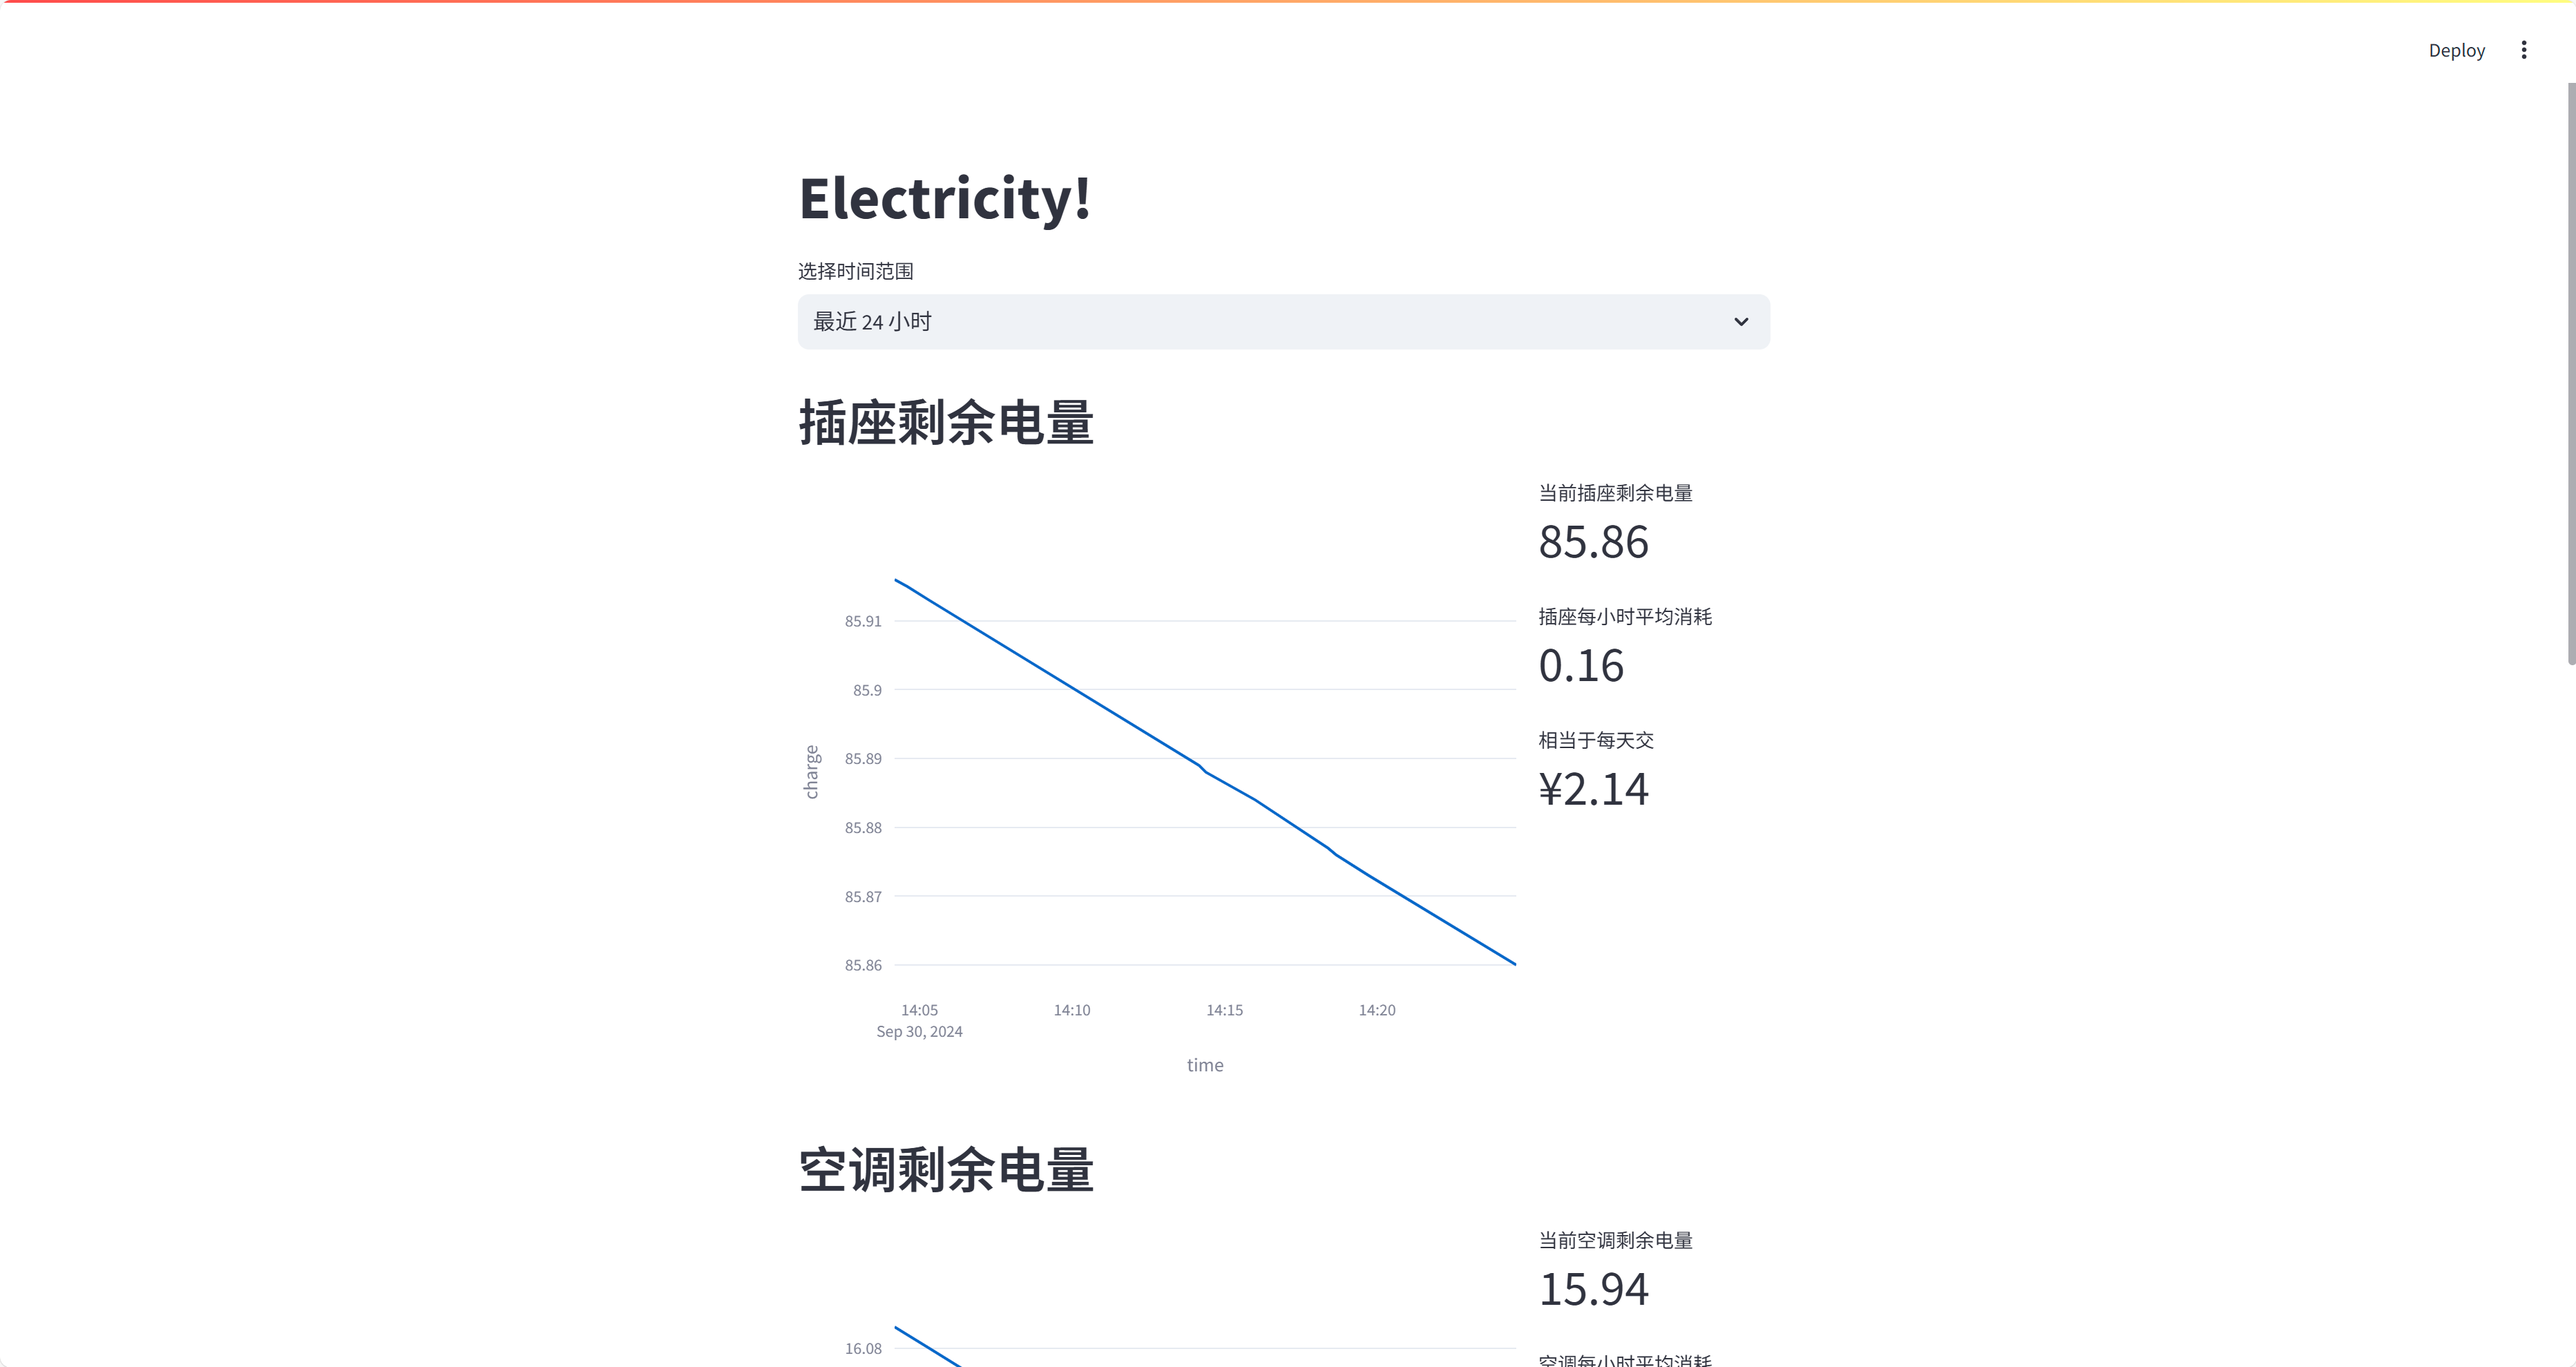
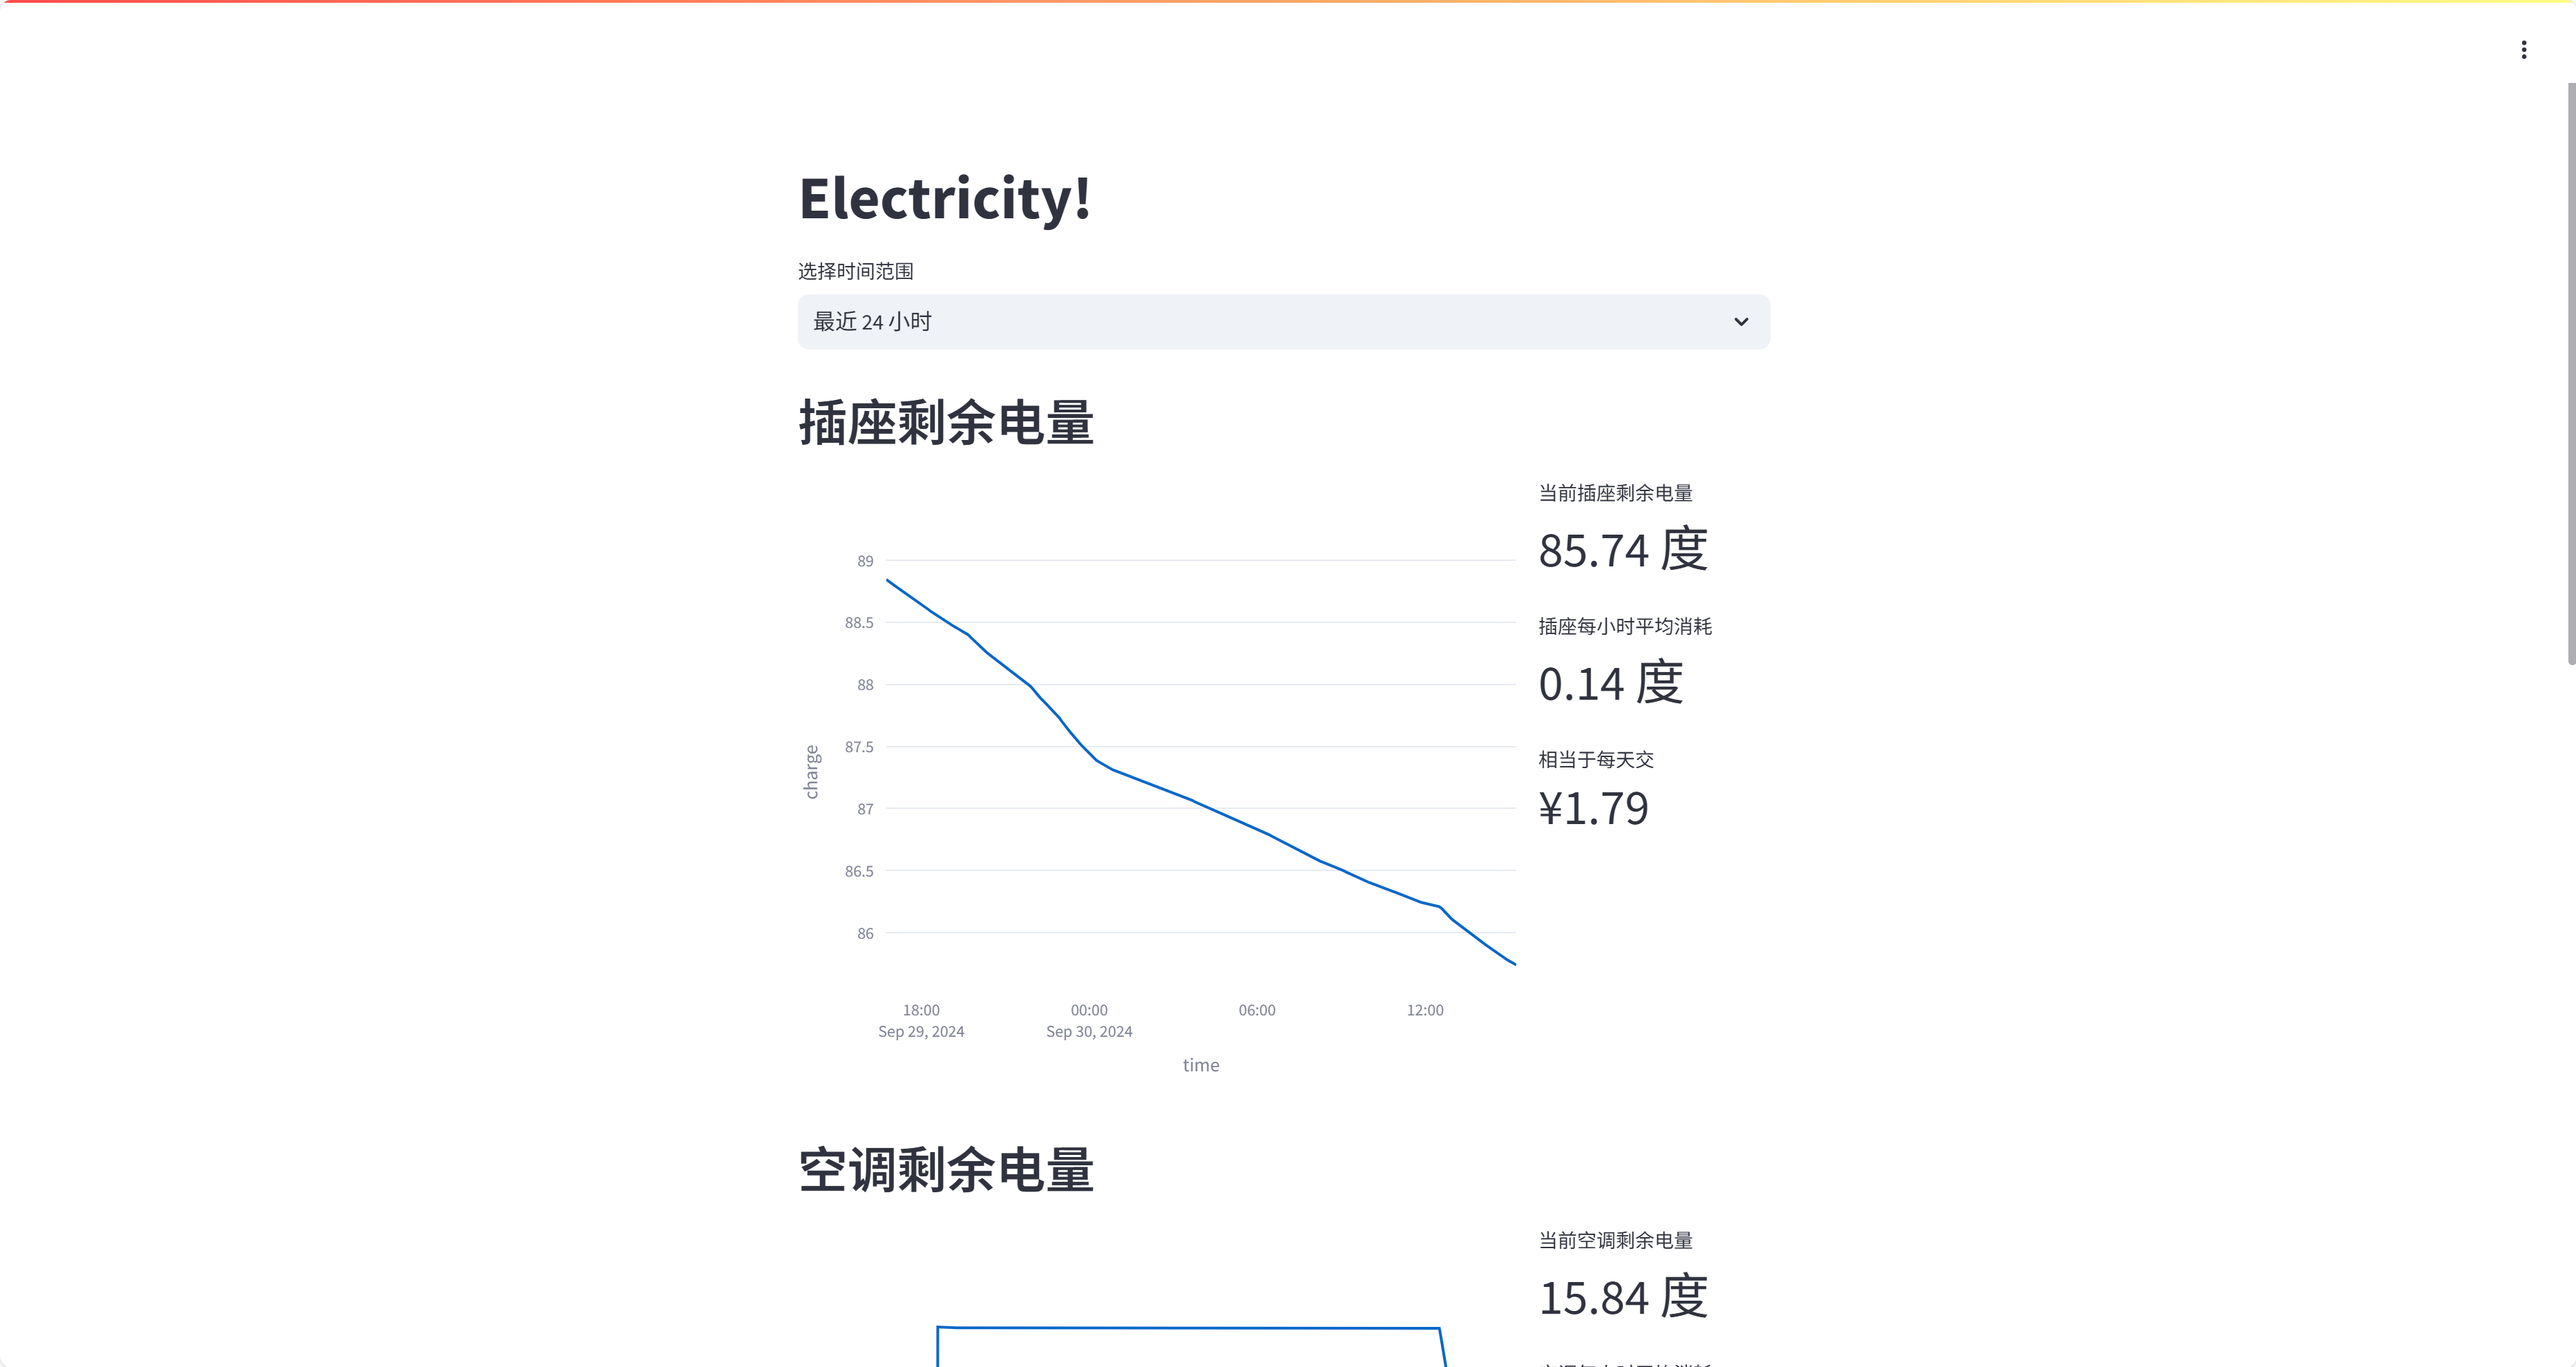
feat: :zap:

diff --git a/init.py b/init.py
@@ -77,7 +77,7 @@ if __name__ == "__main__":
                             "index": i,
                         }
                     )
-                    
+
             import keyboard
             import time
 
@@ -120,6 +120,12 @@ if __name__ == "__main__":
             config["student"]["equipments"][categoryEnergyName]["equipmentInfoId"] = (
                 eqptData[i]["equipmentInfoId"]
             )
+            config["student"]["equipments"][categoryEnergyName]["roomName"] = (
+                eqptData[i]["roomName"]
+            )
 
         with open("config.toml", "w", encoding="utf-8") as f:
+            if "visualize" not in config or "title" not in config["visualize"]:
+                config["visualize"] = {}
+                config["visualize"]["title"] = "Electricity!"
             dump(config, f)

diff --git a/visualize.py b/visualize.py
@@ -4,10 +4,14 @@ import plotly.express as px
 from peewee import *
 from datetime import datetime, timedelta
 from init import ChaZuo, KongTiao, electricity_fee
+from toml import load
 
-
+config = load("config.toml")
+if "visualize" not in config or "title" not in config["visualize"]:
+    st.error("请先运行 init.py 文件")
+    st.stop()
 # Streamlit 应用
-st.title("Electricity!")
+st.title(config["visualize"]["title"])
 
 # 时间范围选择
 time_range = st.selectbox(
@@ -59,6 +63,7 @@ def get_consumption_rate(data):
 
 # 展示插座剩余电量
 st.header("插座剩余电量")
+st.write(config["student"]["equipments"]["chazuo"]["roomName"])
 if not chazuo_data.empty:
     col1, col2 = st.columns([3, 1])  # 3:1 的宽度比例
     with col1:

diff --git a/README.md b/README.md
@@ -31,6 +31,9 @@ kongtiao_threshold = 10
 id = "your_student_id"
 electricity_fee = 0.54
 
+[visualize]
+title = "Electricity!"
+
 [database.MySQL]
 host = "localhost"
 port = 3306
@@ -72,3 +75,9 @@ python init.py
 ```bash
 streamlit run visualize.py
 ```
+
+## 注意
+
+- 请勿将配置文件上传至公开仓库，其中包含了个人信息。
+- 请勿频繁请求电费数据，以免对校园网造成影响。
+- 对于电量的平均消耗计算依赖于定时任务的执行频率，如果定时任务执行频率不稳定，可能会导致电量的平均消耗不准确。计算时，只针对电量减少的情况进行计算，不考虑电量增加或不变的情况。因此每日电费估计**一定**是一个**偏大**的值，仅供参考。
